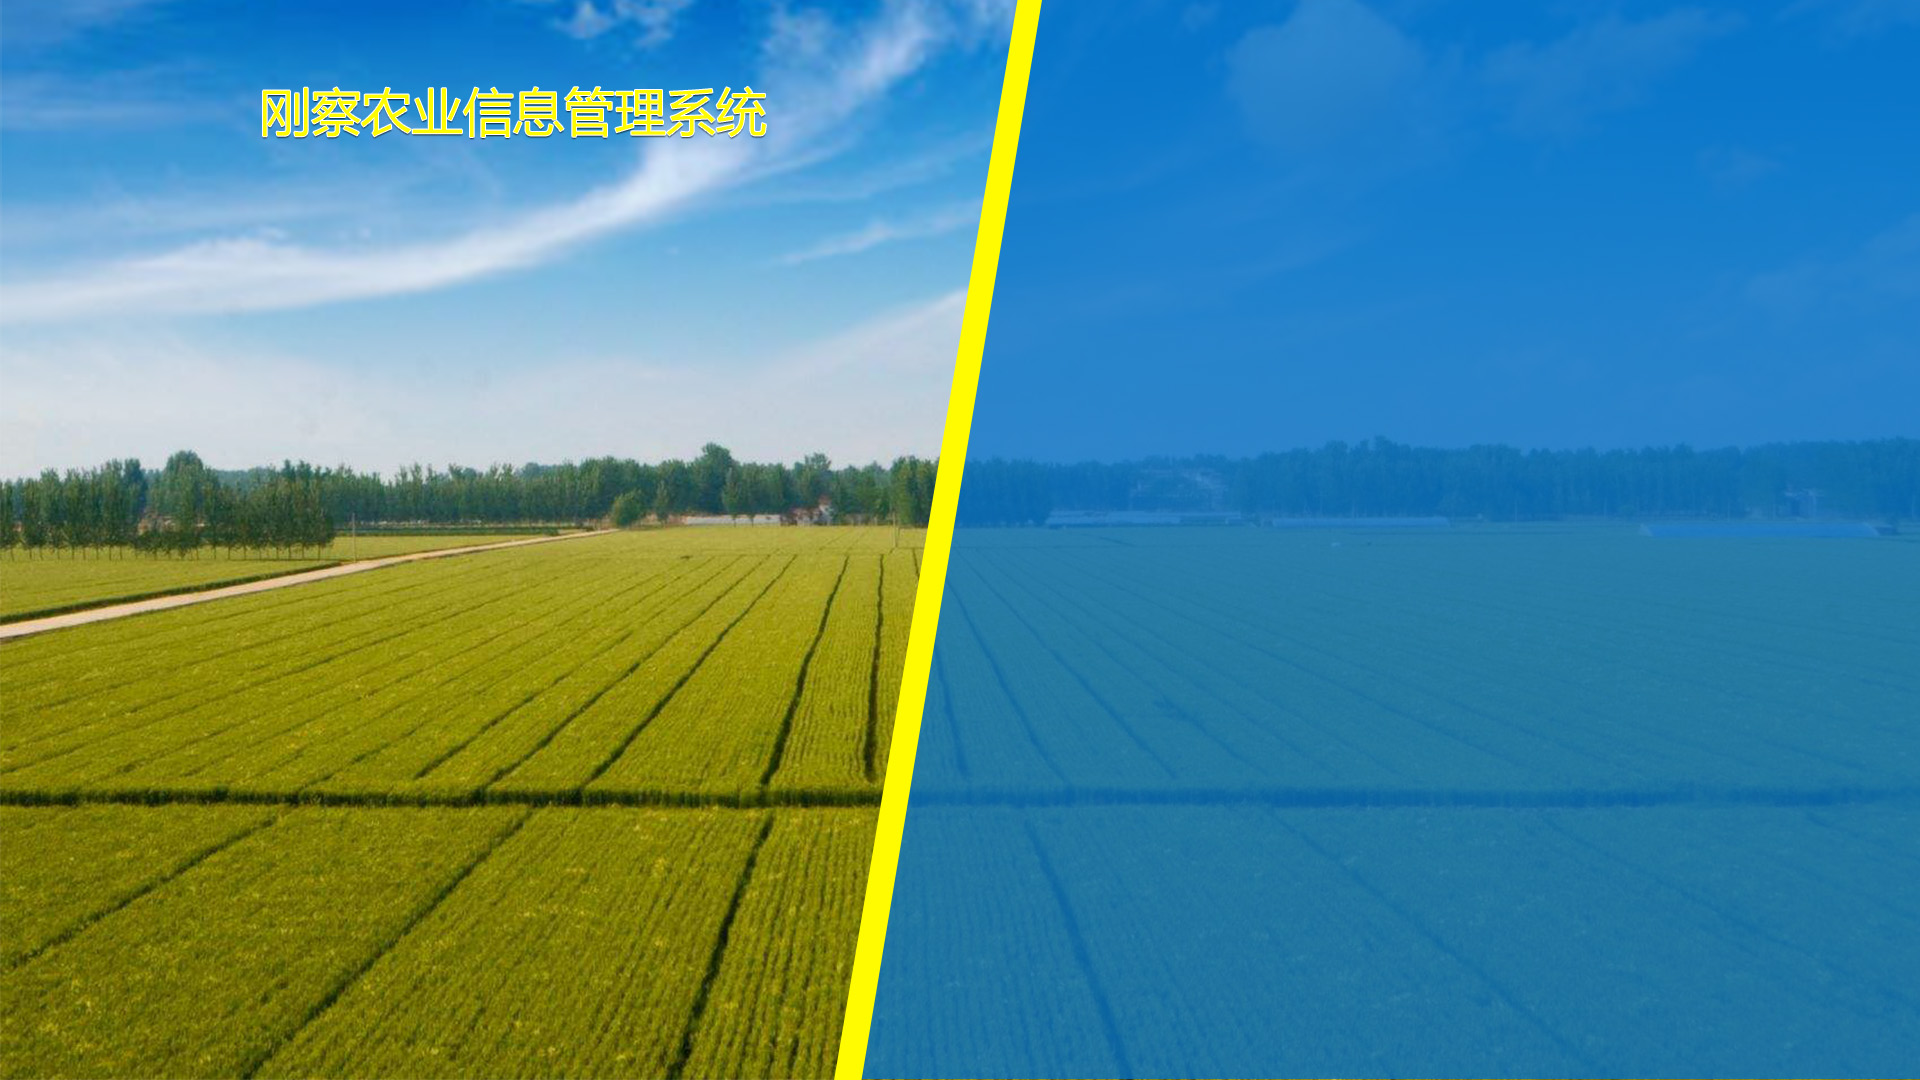
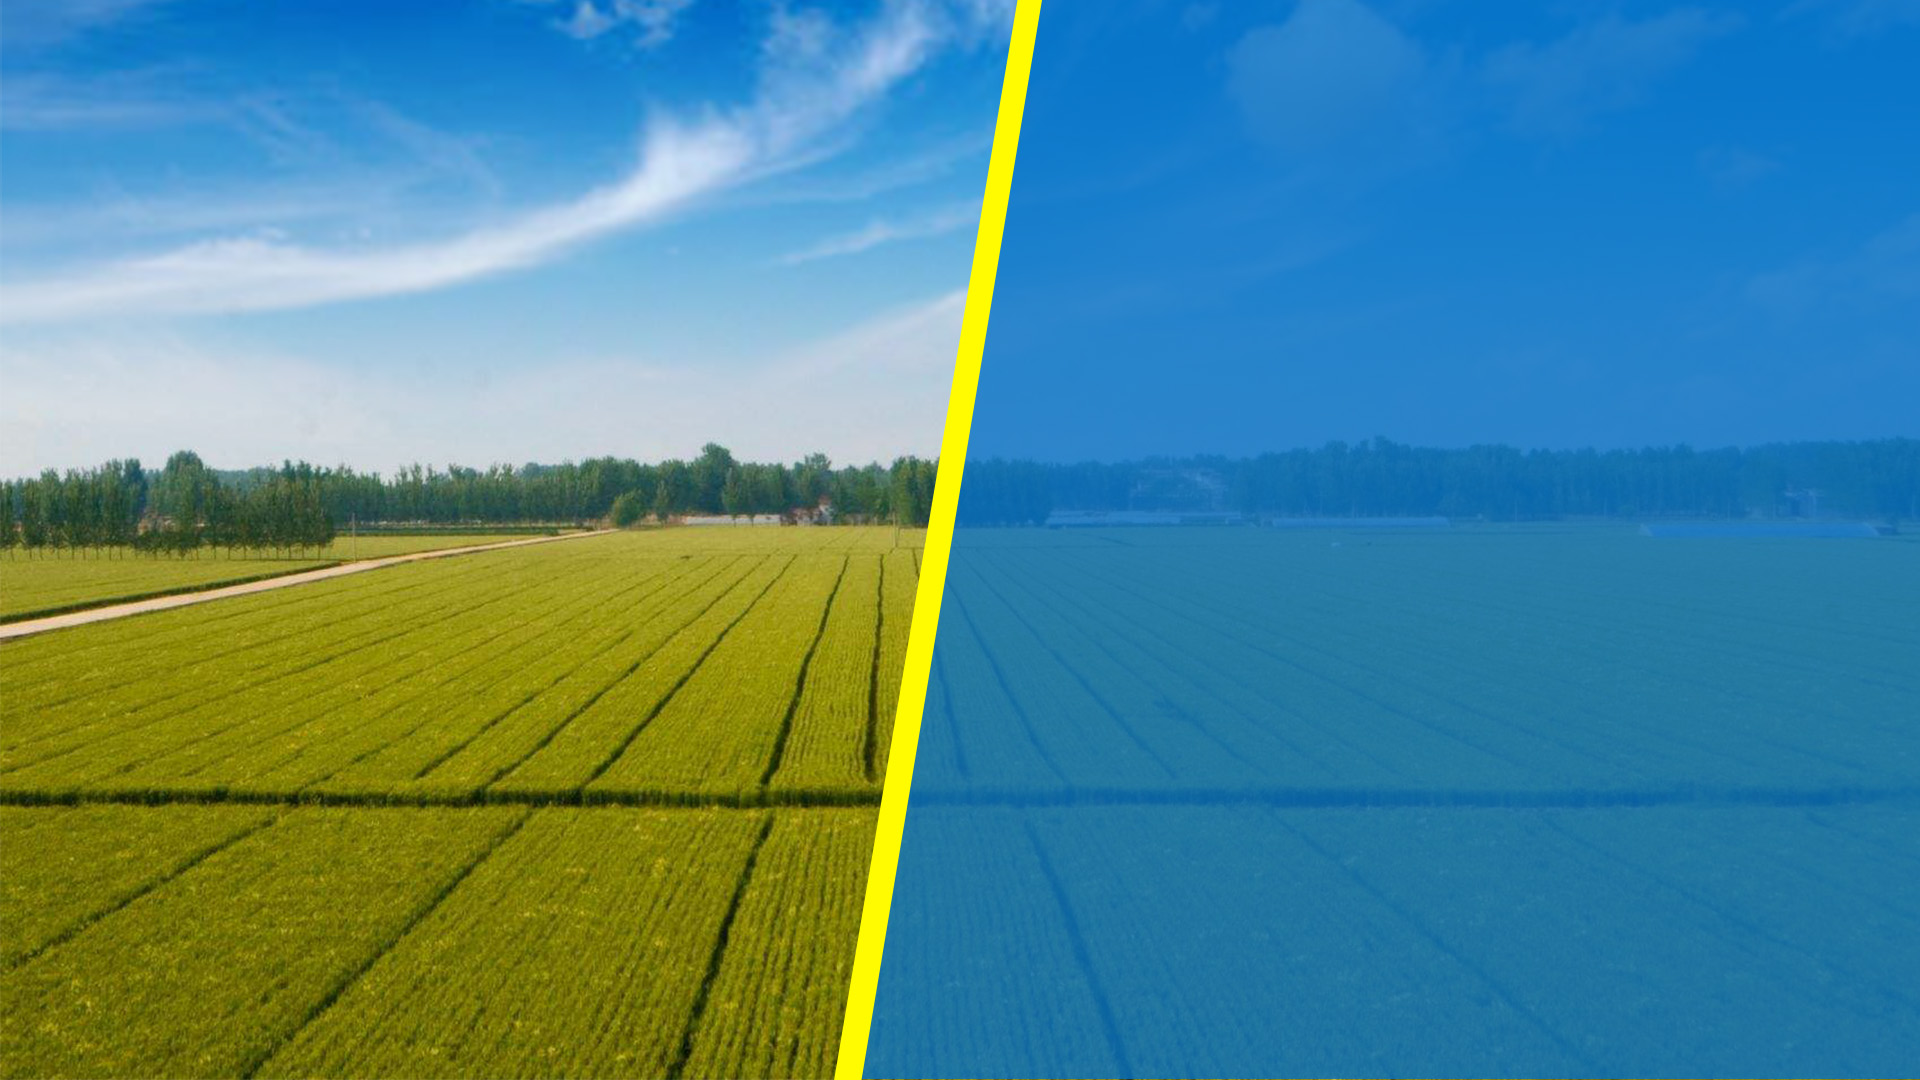
登录页，预警消息样式调整

Changed region(s): [[0.125, 0.0611, 0.4062, 0.1528]]

diff --git a/AgriMonitor/src/main/resources/templates/workbench.html b/AgriMonitor/src/main/resources/templates/workbench.html
@@ -34,7 +34,6 @@
 		    overflow: hidden;
 		    float: right;
 		    color:rgb(194, 53, 49);
-		    margin-left: 50px;
 		  }
 		
 		  .wrapper p {
@@ -118,13 +117,12 @@
 					<div style="float: left;padding-left: 10px">
 						<span id="nav" style="color: #666;line-height: 50px;font-size: 14px;font-style: normal;">数据总览</span>
 						
-						<div class="box">
-							  <div class="wrapper" id="monitorinfo">
+						<span id="monitorSpan" style="color:rgb(194, 53, 49);margin-left: 50px;display:inline">预警消息：</span>
+						<div class="box" style="display: none;">
+						 	<div class="wrapper" id="monitorinfo">
 							    
-							  </div>
+						  	</div>
 						</div>
-						
-						
 					</div>
 						
 					<div class="topMenu">
@@ -139,7 +137,6 @@
 			<!-- 头部栏 - 结束 -->
 			<!-- 核心区域 - 开始 -->
 			<div class="frameMain">
-				
 				<div class="con">
 					<iframe id="mainIframe" src="/dataoverview"></iframe>
 				</div>

diff --git a/AgriMonitor/target/classes/templates/workbench.html b/AgriMonitor/target/classes/templates/workbench.html
@@ -34,7 +34,6 @@
 		    overflow: hidden;
 		    float: right;
 		    color:rgb(194, 53, 49);
-		    margin-left: 50px;
 		  }
 		
 		  .wrapper p {
@@ -118,13 +117,12 @@
 					<div style="float: left;padding-left: 10px">
 						<span id="nav" style="color: #666;line-height: 50px;font-size: 14px;font-style: normal;">数据总览</span>
 						
-						<div class="box">
-							  <div class="wrapper" id="monitorinfo">
+						<span id="monitorSpan" style="color:rgb(194, 53, 49);margin-left: 50px;display:inline">预警消息：</span>
+						<div class="box" style="display: none;">
+						 	<div class="wrapper" id="monitorinfo">
 							    
-							  </div>
+						  	</div>
 						</div>
-						
-						
 					</div>
 						
 					<div class="topMenu">
@@ -139,7 +137,6 @@
 			<!-- 头部栏 - 结束 -->
 			<!-- 核心区域 - 开始 -->
 			<div class="frameMain">
-				
 				<div class="con">
 					<iframe id="mainIframe" src="/dataoverview"></iframe>
 				</div>

diff --git a/AgriMonitor/src/main/resources/static/js/workbench.js b/AgriMonitor/src/main/resources/static/js/workbench.js
@@ -76,6 +76,8 @@ layui.use(['form','layer'], function(form,layer) {
 		$(".frameMain .con").height(win_h - frameTopH);
 		$(".frameMain .con iframe").height(win_h - frameTopH);
 		
+		$("#monitorSpan").hide();
+		
 		//自定义滚动条
 		$(".menu").mCustomScrollbar();
 	}
@@ -110,6 +112,8 @@ layui.use(['form','layer'], function(form,layer) {
 	function monitorinfo(){
 		 $.post("/monitorManage/findmonitorinfo", {},function(res){
 		        if(res && res.length>0){
+		        	$("#monitorSpan").show();
+		        	$(".box").show();
 		        	var str="";
 		        	$.each(res,function(index,item){
 		        		str+="<p class='item'>"+item+"</p>";
@@ -141,6 +145,9 @@ layui.use(['form','layer'], function(form,layer) {
 		        		    }
 		        		  }, 8000);
 		        	}
+		        } else {
+		        	$("#monitorSpan").hide();
+		        	$(".box").hide();
 		        }
 		    });
 	}

diff --git a/AgriMonitor/target/classes/static/js/workbench.js b/AgriMonitor/target/classes/static/js/workbench.js
@@ -76,6 +76,8 @@ layui.use(['form','layer'], function(form,layer) {
 		$(".frameMain .con").height(win_h - frameTopH);
 		$(".frameMain .con iframe").height(win_h - frameTopH);
 		
+		$("#monitorSpan").hide();
+		
 		//自定义滚动条
 		$(".menu").mCustomScrollbar();
 	}
@@ -110,6 +112,8 @@ layui.use(['form','layer'], function(form,layer) {
 	function monitorinfo(){
 		 $.post("/monitorManage/findmonitorinfo", {},function(res){
 		        if(res && res.length>0){
+		        	$("#monitorSpan").show();
+		        	$(".box").show();
 		        	var str="";
 		        	$.each(res,function(index,item){
 		        		str+="<p class='item'>"+item+"</p>";
@@ -141,6 +145,9 @@ layui.use(['form','layer'], function(form,layer) {
 		        		    }
 		        		  }, 8000);
 		        	}
+		        } else {
+		        	$("#monitorSpan").hide();
+		        	$(".box").hide();
 		        }
 		    });
 	}

diff --git a/AgriMonitor/src/main/resources/static/css/style.css b/AgriMonitor/src/main/resources/static/css/style.css
@@ -17,8 +17,8 @@ img{border:none;}
 .Login{ background-size:1920px auto; min-width:1200px; position:relative;}
 
 .Login_heand{ padding-top:70px; }
-.Login_logo{ height:49px; color:#FFF; font-size:22px; font-weight:600; display:block;}
-.Login_logo p{ padding-top:17px; margin-left:20px;}
+.Login_logo{ height:49px; color:#FFF; font-size:40px; font-weight:600; display:block;}
+.Login_logo p{ padding-top:30px; margin-left:20px;}
 a.Login_down{ font-size:12px; color:#FFF;padding-top:28px;}
 .Login_k{ padding-left:57%; width:43%; min-width:515px; margin-top:130px;}
 .Login_T{ border-bottom:1px solid #6092ce; color:#FFF; font-size:16px; position:relative; padding:10px 0;}

diff --git a/AgriMonitor/target/classes/static/css/style.css b/AgriMonitor/target/classes/static/css/style.css
@@ -17,8 +17,8 @@ img{border:none;}
 .Login{ background-size:1920px auto; min-width:1200px; position:relative;}
 
 .Login_heand{ padding-top:70px; }
-.Login_logo{ height:49px; color:#FFF; font-size:22px; font-weight:600; display:block;}
-.Login_logo p{ padding-top:17px; margin-left:20px;}
+.Login_logo{ height:49px; color:#FFF; font-size:40px; font-weight:600; display:block;}
+.Login_logo p{ padding-top:30px; margin-left:20px;}
 a.Login_down{ font-size:12px; color:#FFF;padding-top:28px;}
 .Login_k{ padding-left:57%; width:43%; min-width:515px; margin-top:130px;}
 .Login_T{ border-bottom:1px solid #6092ce; color:#FFF; font-size:16px; position:relative; padding:10px 0;}

diff --git a/AgriMonitor/src/main/resources/static/login.html b/AgriMonitor/src/main/resources/static/login.html
@@ -10,6 +10,9 @@
 <!--Login-开始-->
 
 <div class="Login_heand dk">
+	 <a href="#" class="Login_logo fl">
+        <p class="fl">刚察农业信息管理系统</p><div class="clear"></div>
+   	 </a>
 </div>
 
 <div class="Login_k" style="padding-top:100px">

diff --git a/AgriMonitor/target/classes/static/login.html b/AgriMonitor/target/classes/static/login.html
@@ -10,6 +10,9 @@
 <!--Login-开始-->
 
 <div class="Login_heand dk">
+	 <a href="#" class="Login_logo fl">
+        <p class="fl">刚察农业信息管理系统</p><div class="clear"></div>
+   	 </a>
 </div>
 
 <div class="Login_k" style="padding-top:100px">

diff --git a/AgriMonitor/src/main/java/com/agri/monitor/config/JobConfig.java b/AgriMonitor/src/main/java/com/agri/monitor/config/JobConfig.java
@@ -41,7 +41,7 @@ public class JobConfig {
 	
 	//每周一1点运行该调度(清理一周的日志)
 	@Scheduled(cron = "0 0 01 ? * 1")
-	//@Scheduled(cron = "0/40 * * * * ?")
+//	@Scheduled(cron = "0/40 * * * * ?")
     private void sysLogTasks() {
 		info("清理一周的日志开始");
 		systemLogMapper.deleteAll();
@@ -58,7 +58,7 @@ public class JobConfig {
 	
 	//每周一2点运行该调度(数据监控)
 	@Scheduled(cron = "0 0 02 ? * 1")
-	//@Scheduled(cron = "0/10 * * * * ?")
+//	@Scheduled(cron = "0/10 * * * * ?")
     private void dataMonitorTasks() {
 		info("运行数据监控调度开始");
 		//将之前预警信息设置为停用状态
